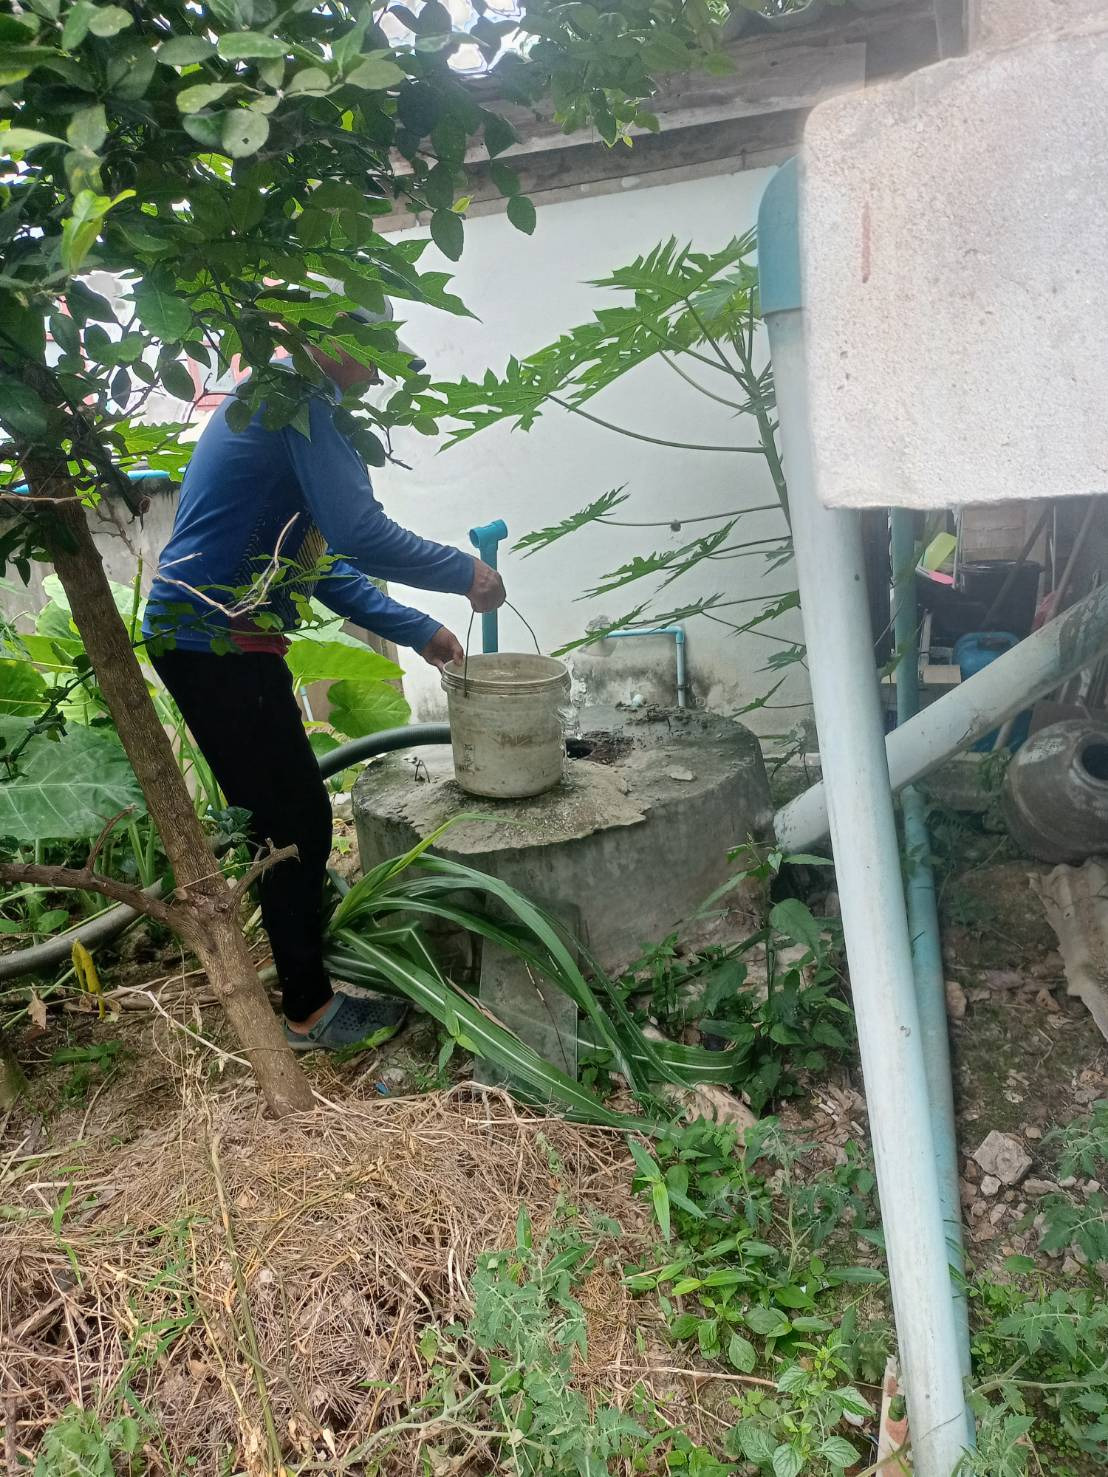
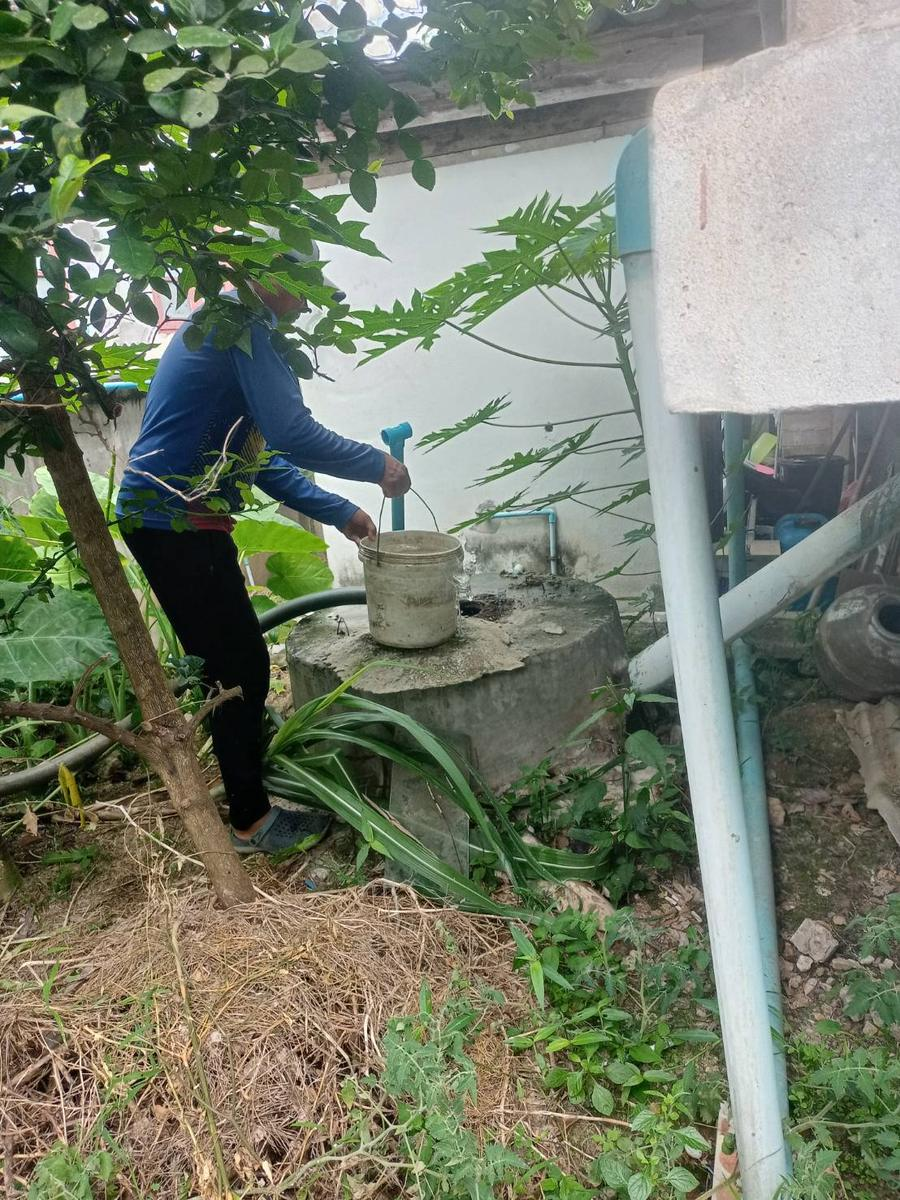
assets: bring five images under the 300KB limit so the site check passes
The portal refused every push since the repo was connected: three
photos (312–330KB) and two logos (303KB, 380KB) were over the 300KB
ceiling, so no draft was written and the preview never updated.

Photos are resized to 1200px on the long side at JPEG q74 (~229KB);
the logos are quantised to a 256-colour palette with alpha kept
(50–60KB). The hero thumb's width/height now match its real portrait
dimensions instead of the landscape pair it declared.

Changed region(s): [[0.0622, 0.3083, 0.0933, 0.3392]]

diff --git a/index.html b/index.html
@@ -639,7 +639,7 @@
             </div>
             <div class="thumbs">
               <div class="shot">
-                <img src="assets/img/line_oa_chat_260910_162847.jpg" alt="ช่างเพชรนาเรือกำลังปฏิบัติงานสูบสิ่งปฏิกูลที่ฝาบ่อข้างอาคาร" width="1477" height="1108" loading="lazy" decoding="async">
+                <img src="assets/img/line_oa_chat_260910_162847.jpg" alt="ช่างเพชรนาเรือกำลังปฏิบัติงานสูบสิ่งปฏิกูลที่ฝาบ่อข้างอาคาร" width="900" height="1200" loading="lazy" decoding="async">
               </div>
               <div class="shot">
                 <img src="assets/img/line_oa_chat_260910_162927.jpg" alt="รถสูบเพชรนาเรือระหว่างเข้าให้บริการในพื้นที่พะเยา" width="1477" height="1108" loading="lazy" decoding="async">
